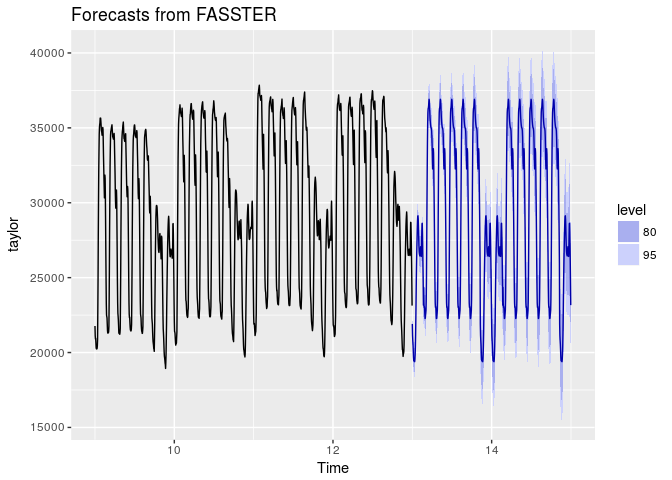
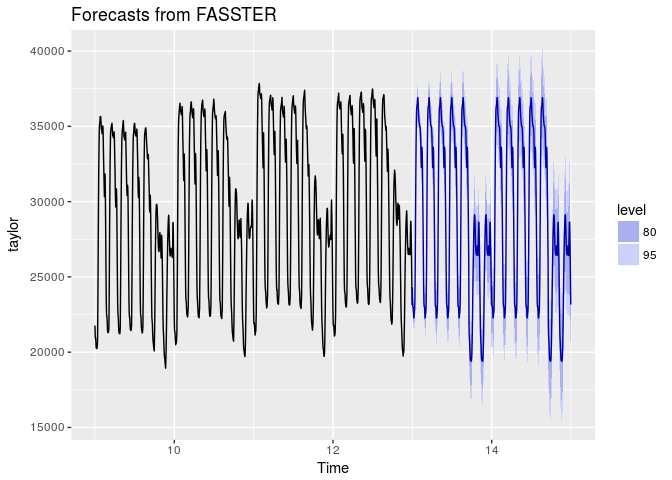
Fixed starting date for forecast plot in README

diff --git a/README.md b/README.md
@@ -87,7 +87,7 @@ Like other forecasting functions, if additional information is required (such as
 
 ``` r
 fit %>% 
-  forecast(newdata = tibble(DateTime = seq(ymd_h("2000-8-27 00"), by="30 mins", length.out=48*7*2)) %>%
+  forecast(newdata = tibble(DateTime = seq(ymd_h("2000-8-28 00"), by="30 mins", length.out=48*7*2)) %>%
                     mutate(DayType = ifelse(wday(DateTime) %in% 2:6, "Weekday", "Weekend"))) %>% 
   autoplot(include = 48*7*4)
 ```
